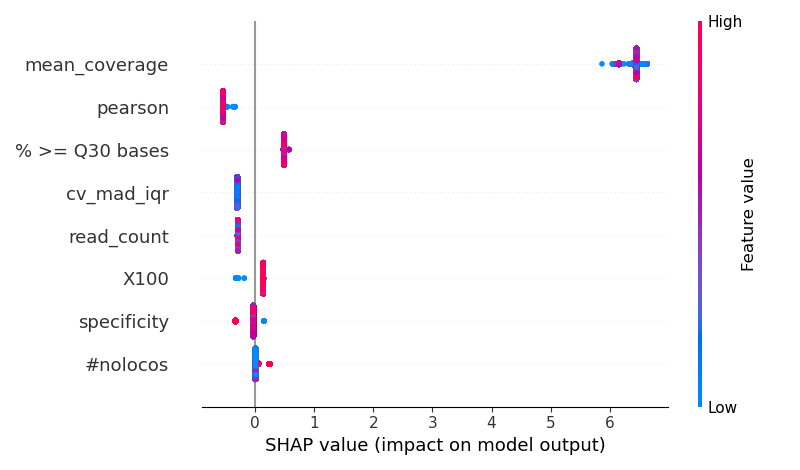
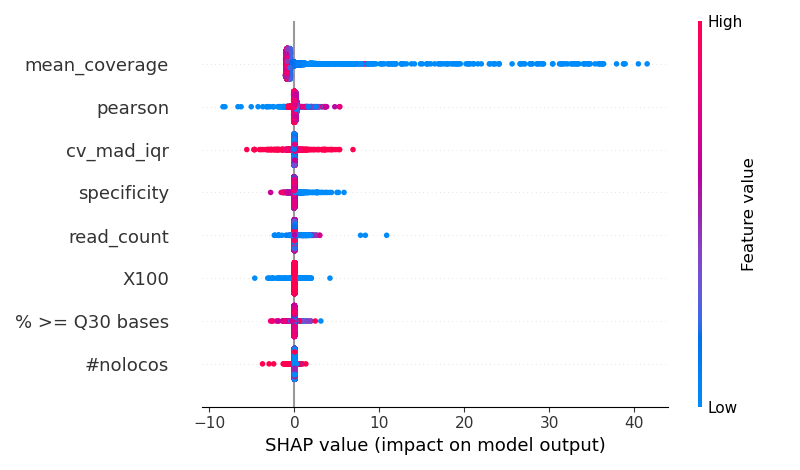
readme

diff --git a/README.md b/README.md
@@ -1,2 +1,51 @@
-# gradient_boosted_regressor
-Construct a model that forecasts the quantity of Copy Number Variations (CNVs) for each sample and pinpoint Key Performance Indicators (KPIs) that lead to a high number of CNVs
+# Gradient Boosted Regressor for CNV Analysis
+
+This script is designed to train a Gradient Boosted Regressor model to identify the features that contribute to high CNV numbers in a sample. High CNV numbers are likely to be false positives, and this model aims to capture those features.
+
+## Dependencies
+
+To run this script, you'll need the following Python libraries:
+- pandas
+- numpy
+- scikit-learn
+- seaborn
+- matplotlib
+- pickle
+- shap
+
+You can install these dependencies using pip:
+```
+pip install pandas numpy scikit-learn seaborn matplotlib pickle shap
+```
+
+## Features
+
+The script performs the following operations:
+- Loads and preprocesses the data.
+- Trains a Gradient Boosted Regressor model using GridSearchCV for hyperparameter tuning.
+- Evaluates the model's performance using metrics like R-squared, Mean Absolute Error, Mean Squared Error, and Root Mean Squared Error.
+- Plots the model fit, feature importance, and SHAP values.
+- Saves the trained model to a file named `gradient_model.pkl`.
+
+## Usage
+
+To run the script, simply execute:
+```
+python gradient_boost.py
+```
+
+## Output
+
+The script will generate and save the following plots:
+- Feature importance plot named `feature_importances.png`.
+- SHAP values plot named `shap_plot.png`.
+
+Additionally, the trained model will be saved as `gradient_model.pkl`.
+
+## Feature Importances
+
+![Feature Importances](feature_importances.png)
+
+## SHAP Plot
+
+![SHAP Plot](shap_plot.png)
